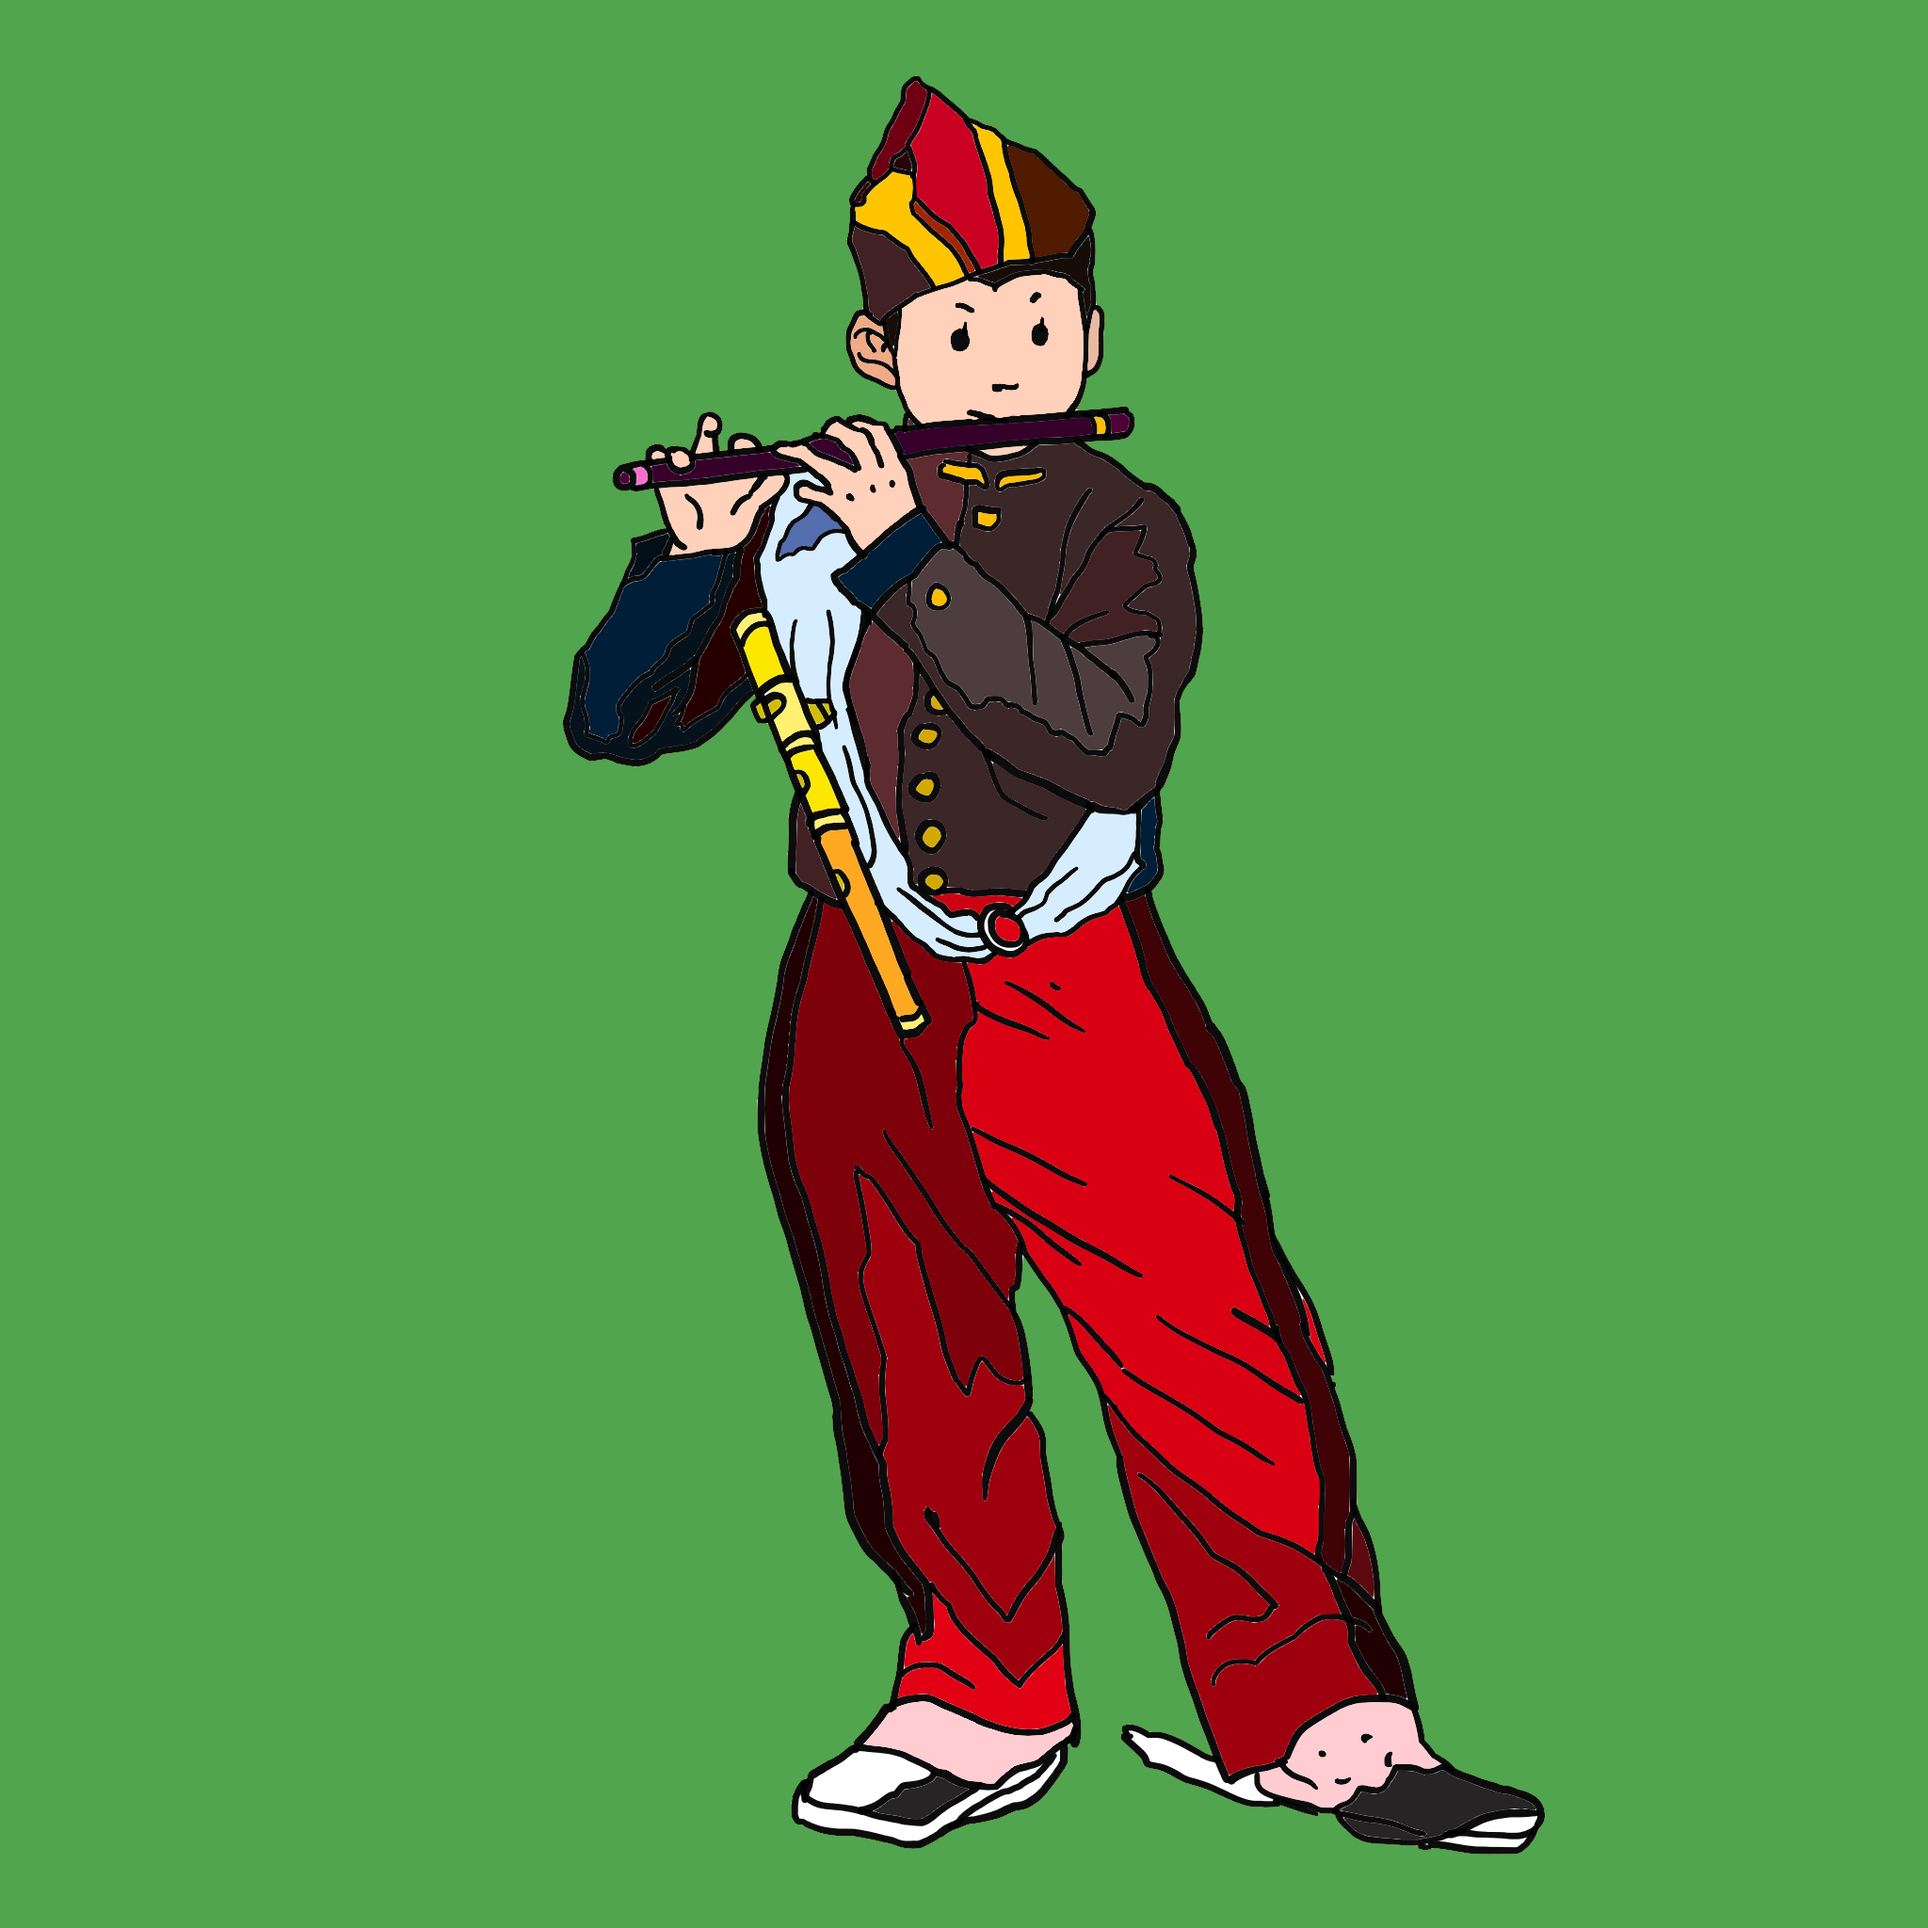
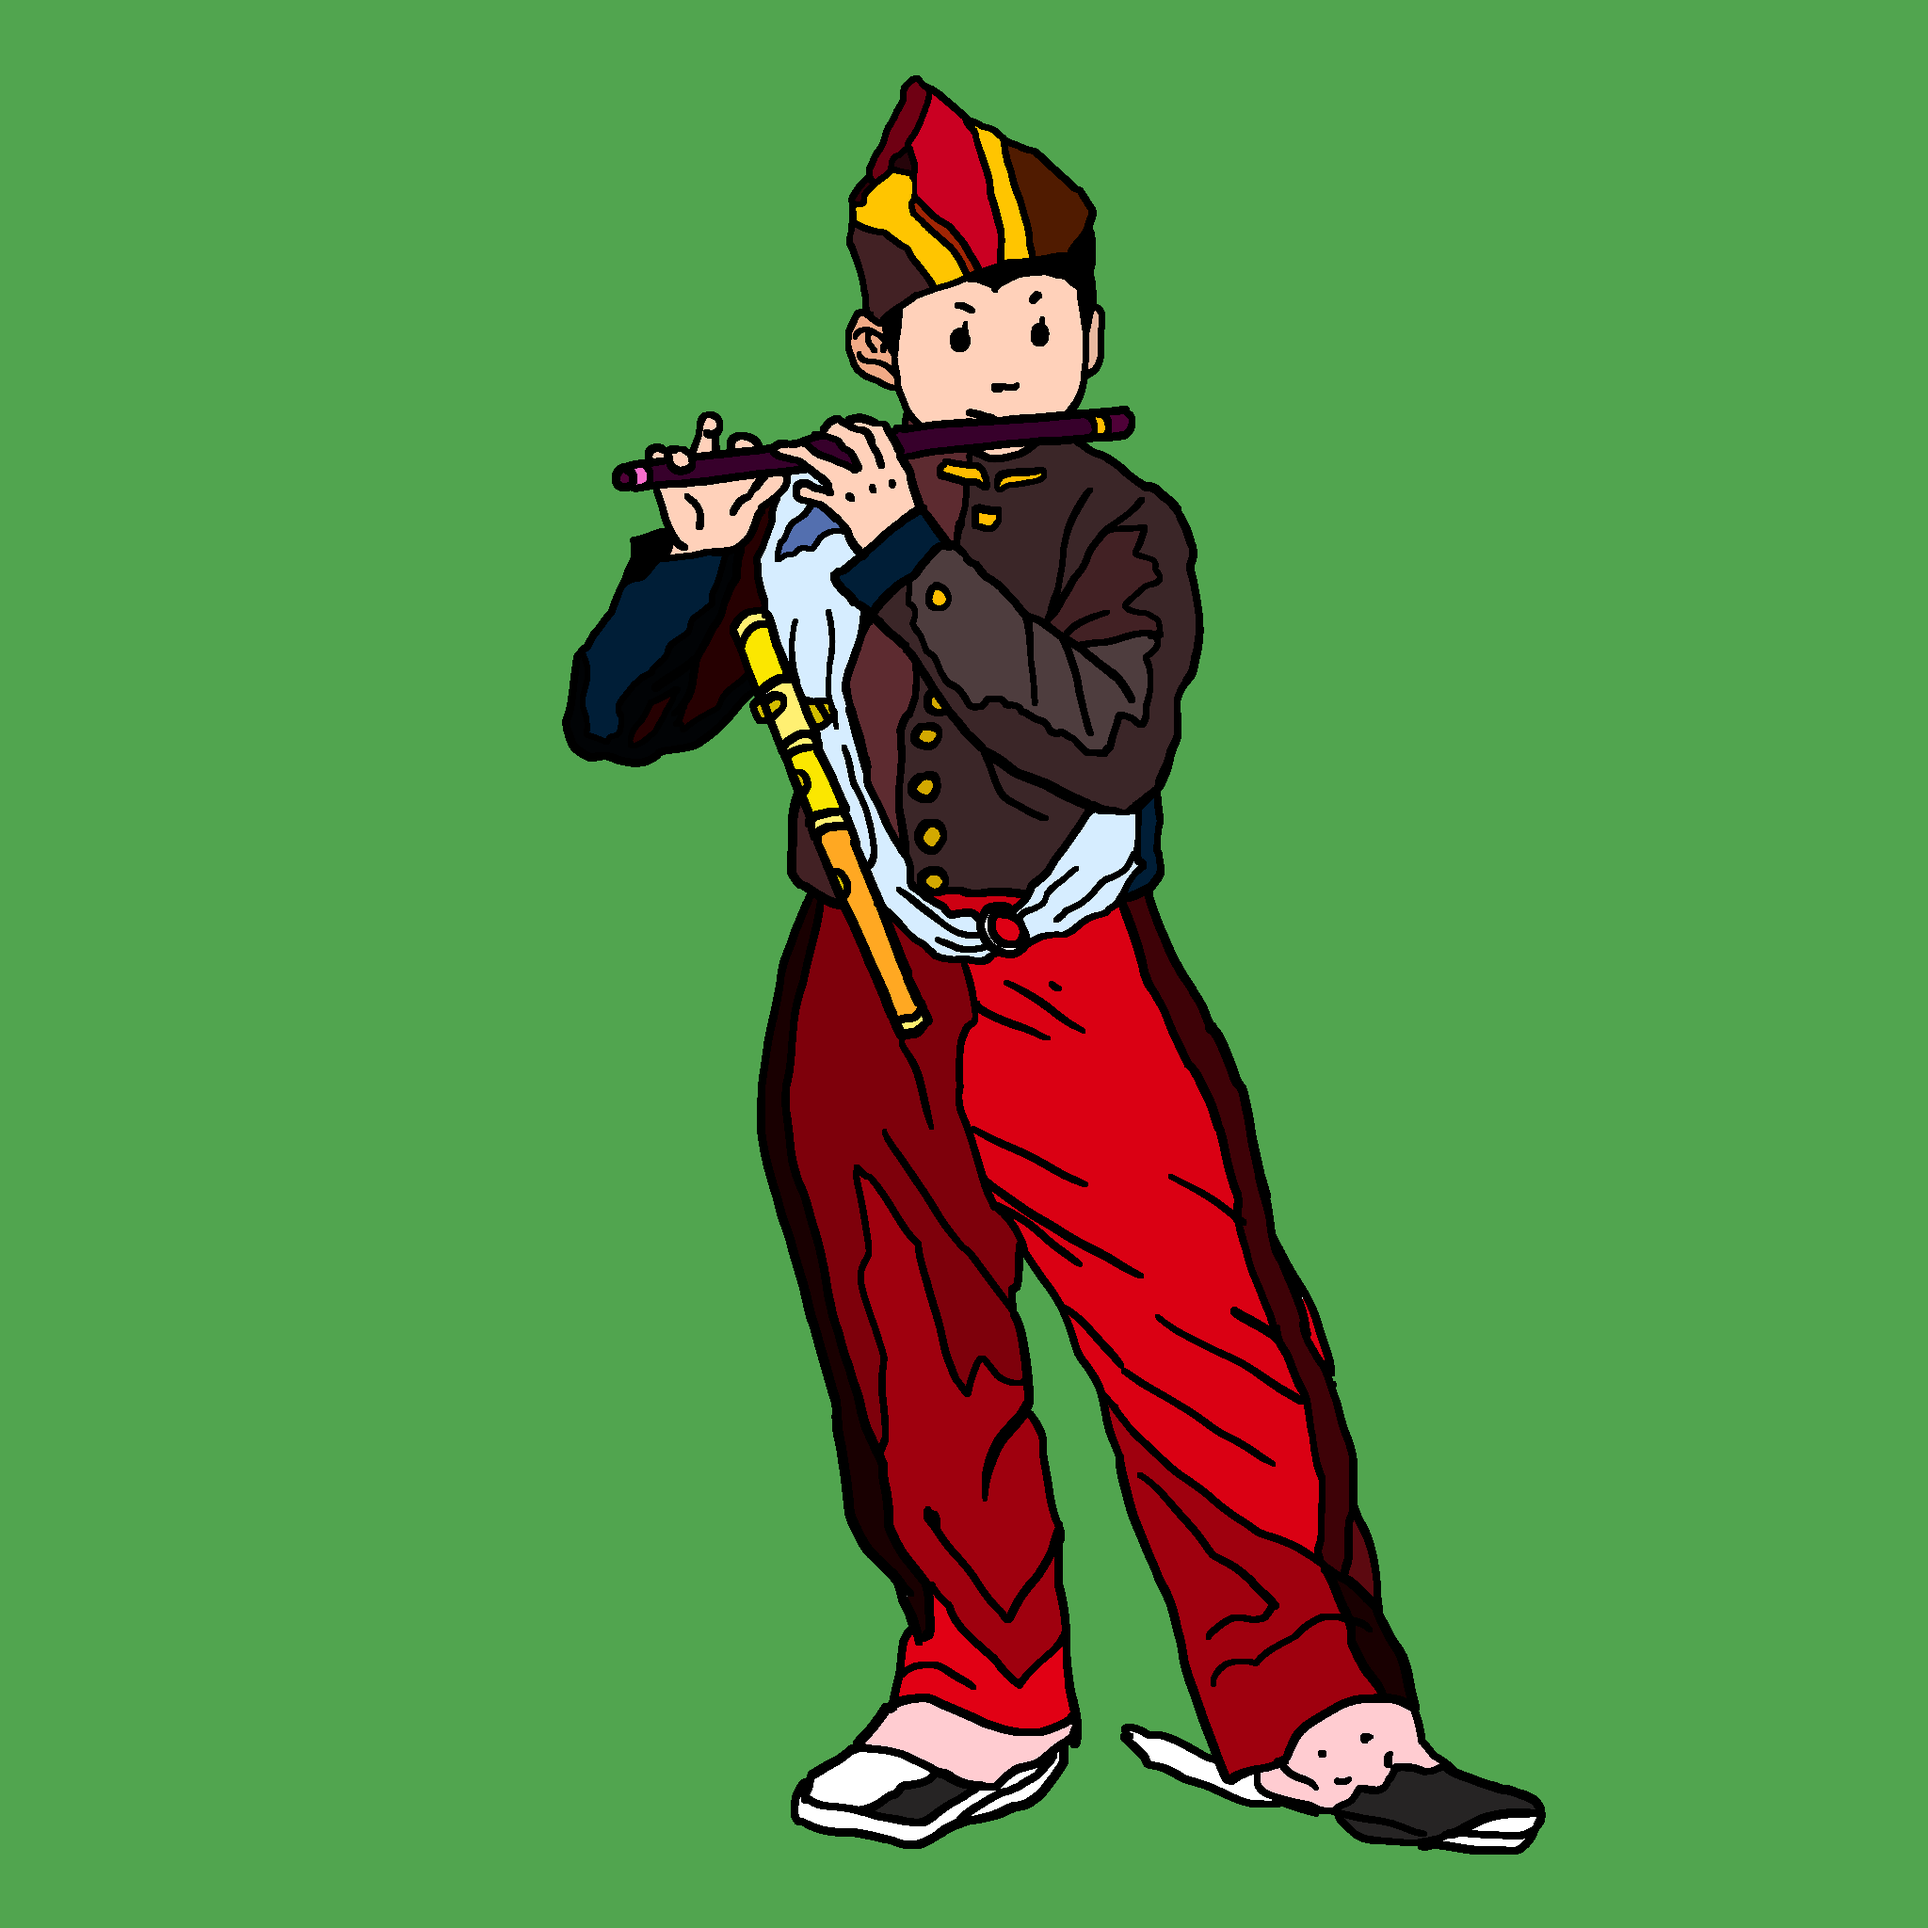
스테이지별 테투리 강도 파라미터 정해서 스테이지 생성할 수 있도록, 11스테이지 퀄리티업

diff --git a/Assets/Scripts/Editor/Program.cs b/Assets/Scripts/Editor/Program.cs
@@ -58,11 +58,11 @@ namespace black_dev_tools
         {
             try
             {
-                ProcessSingleFile(args, 20);
+                ProcessSingleFile(args, int.Parse(args[6]));
             }
             catch (IslandCountException)
             {
-                ProcessSingleFile(args, 30);
+                ProcessSingleFile(args, int.Parse(args[6]) + 10);
             }
             catch (DirectoryNotFoundException e)
             {
@@ -390,6 +390,7 @@ namespace black_dev_tools
                     {
                         if (errorAsWarning)
                         {
+                            // 이번엔 오류로 안친다.
                             Logger.WriteLine("Logic error in ExecuteDetermineIslandTest()! Invalid fillMinPoint");
                         }
                         else
@@ -402,6 +403,7 @@ namespace black_dev_tools
                     {
                         if (errorAsWarning)
                         {
+                            // 이번엔 오류로 안친다.
                             Logger.WriteLine(
                                 $"Logic error in ExecuteDetermineIslandTest()! Pixel area {pixelArea} expected to be {island.Value.pixelArea}");
                         }
@@ -626,6 +628,7 @@ namespace black_dev_tools
             var targetFileName = AppendToFileName(sourceFileName, "-Q");
 
             var quOpts = new QuantizerOptions {MaxColors = maxColor};
+            //var quantizer = new OctreeQuantizer(quOpts);
             var quantizer = new WuQuantizer(quOpts);
             var config = Configuration.Default;
             var pixelQuantizer = quantizer.CreatePixelSpecificQuantizer<Rgba32>(config);

diff --git a/Assets/Scripts/Editor/StageEditorUtil.cs b/Assets/Scripts/Editor/StageEditorUtil.cs
@@ -54,16 +54,43 @@ internal static class StageEditorUtil
             return;
         }
 
-        var assetPathParent = Path.GetDirectoryName(assetPath);
-        var stageName = Path.GetFileNameWithoutExtension(assetPathParent);
+        var assetDirName = Path.GetDirectoryName(assetPath);
+        if (string.IsNullOrEmpty(assetDirName))
+        {
+            Debug.LogError("Asset path error");
+            return;
+        }
+        
+        var stageName = Path.GetFileNameWithoutExtension(assetDirName);
 
         if (showConfirm && !EditorUtility.DisplayDialog($"Import New Stage: {stageName}",
                 "This takes about 30-60 seconds to finish. Proceed?", "Proceed", "Cancel"))
         {
             return;
         }
-
-        Program.Main(new[] {"dit", assetPath, "30", "", "", stageName});
+        
+        var stageMetadataPath = Path.Combine(assetDirName, $"{stageName}.asset");
+        var stageMetadata = AssetDatabase.LoadAssetAtPath<StageMetadata>(stageMetadataPath);
+        var outlineThreshold = 30;
+        var maxPaletteCount = 30;
+        if (stageMetadata != null)
+        {
+            outlineThreshold = stageMetadata.OutlineThreshold;
+        }
+        
+        Debug.Log($"Max palette count: {maxPaletteCount}");
+        Debug.Log($"Outline threshold: {outlineThreshold}");
+        
+        Program.Main(new[]
+        {
+            /* 00 */ "dit",
+            /* 01 */ assetPath,
+            /* 02 */ maxPaletteCount.ToString(),
+            /* 03 */ "",
+            /* 04 */ "",
+            /* 05 */ stageName,
+            /* 06 */ outlineThreshold.ToString(),
+        });
 
         AssetDatabase.Refresh();
 

diff --git a/Assets/Scripts/StageMetadata.cs b/Assets/Scripts/StageMetadata.cs
@@ -17,12 +17,17 @@ public class StageMetadata : ScriptableObject
     [SerializeField]
     Texture2D a2Tex;
 
+    // 외곽선(블랙)으로 칠 색상의 최대치. 숫자가 커질수록 애매하게 검은 색상도 완전한 검은색으로 취급된다. 
+    [SerializeField]
+    int outlineThreshold = 30;
+
     public int StageIndex { get; set; }
 
     public Material SdfMaterial => sdfMaterial;
     public TextAsset RawStageData => rawStageData;
     public Texture2D A1Tex => a1Tex;
     public Texture2D A2Tex => a2Tex;
+    public int OutlineThreshold => outlineThreshold;
 
     public StageSequenceData StageSequenceData => Data.dataSet.StageSequenceData[StageIndex];
 
